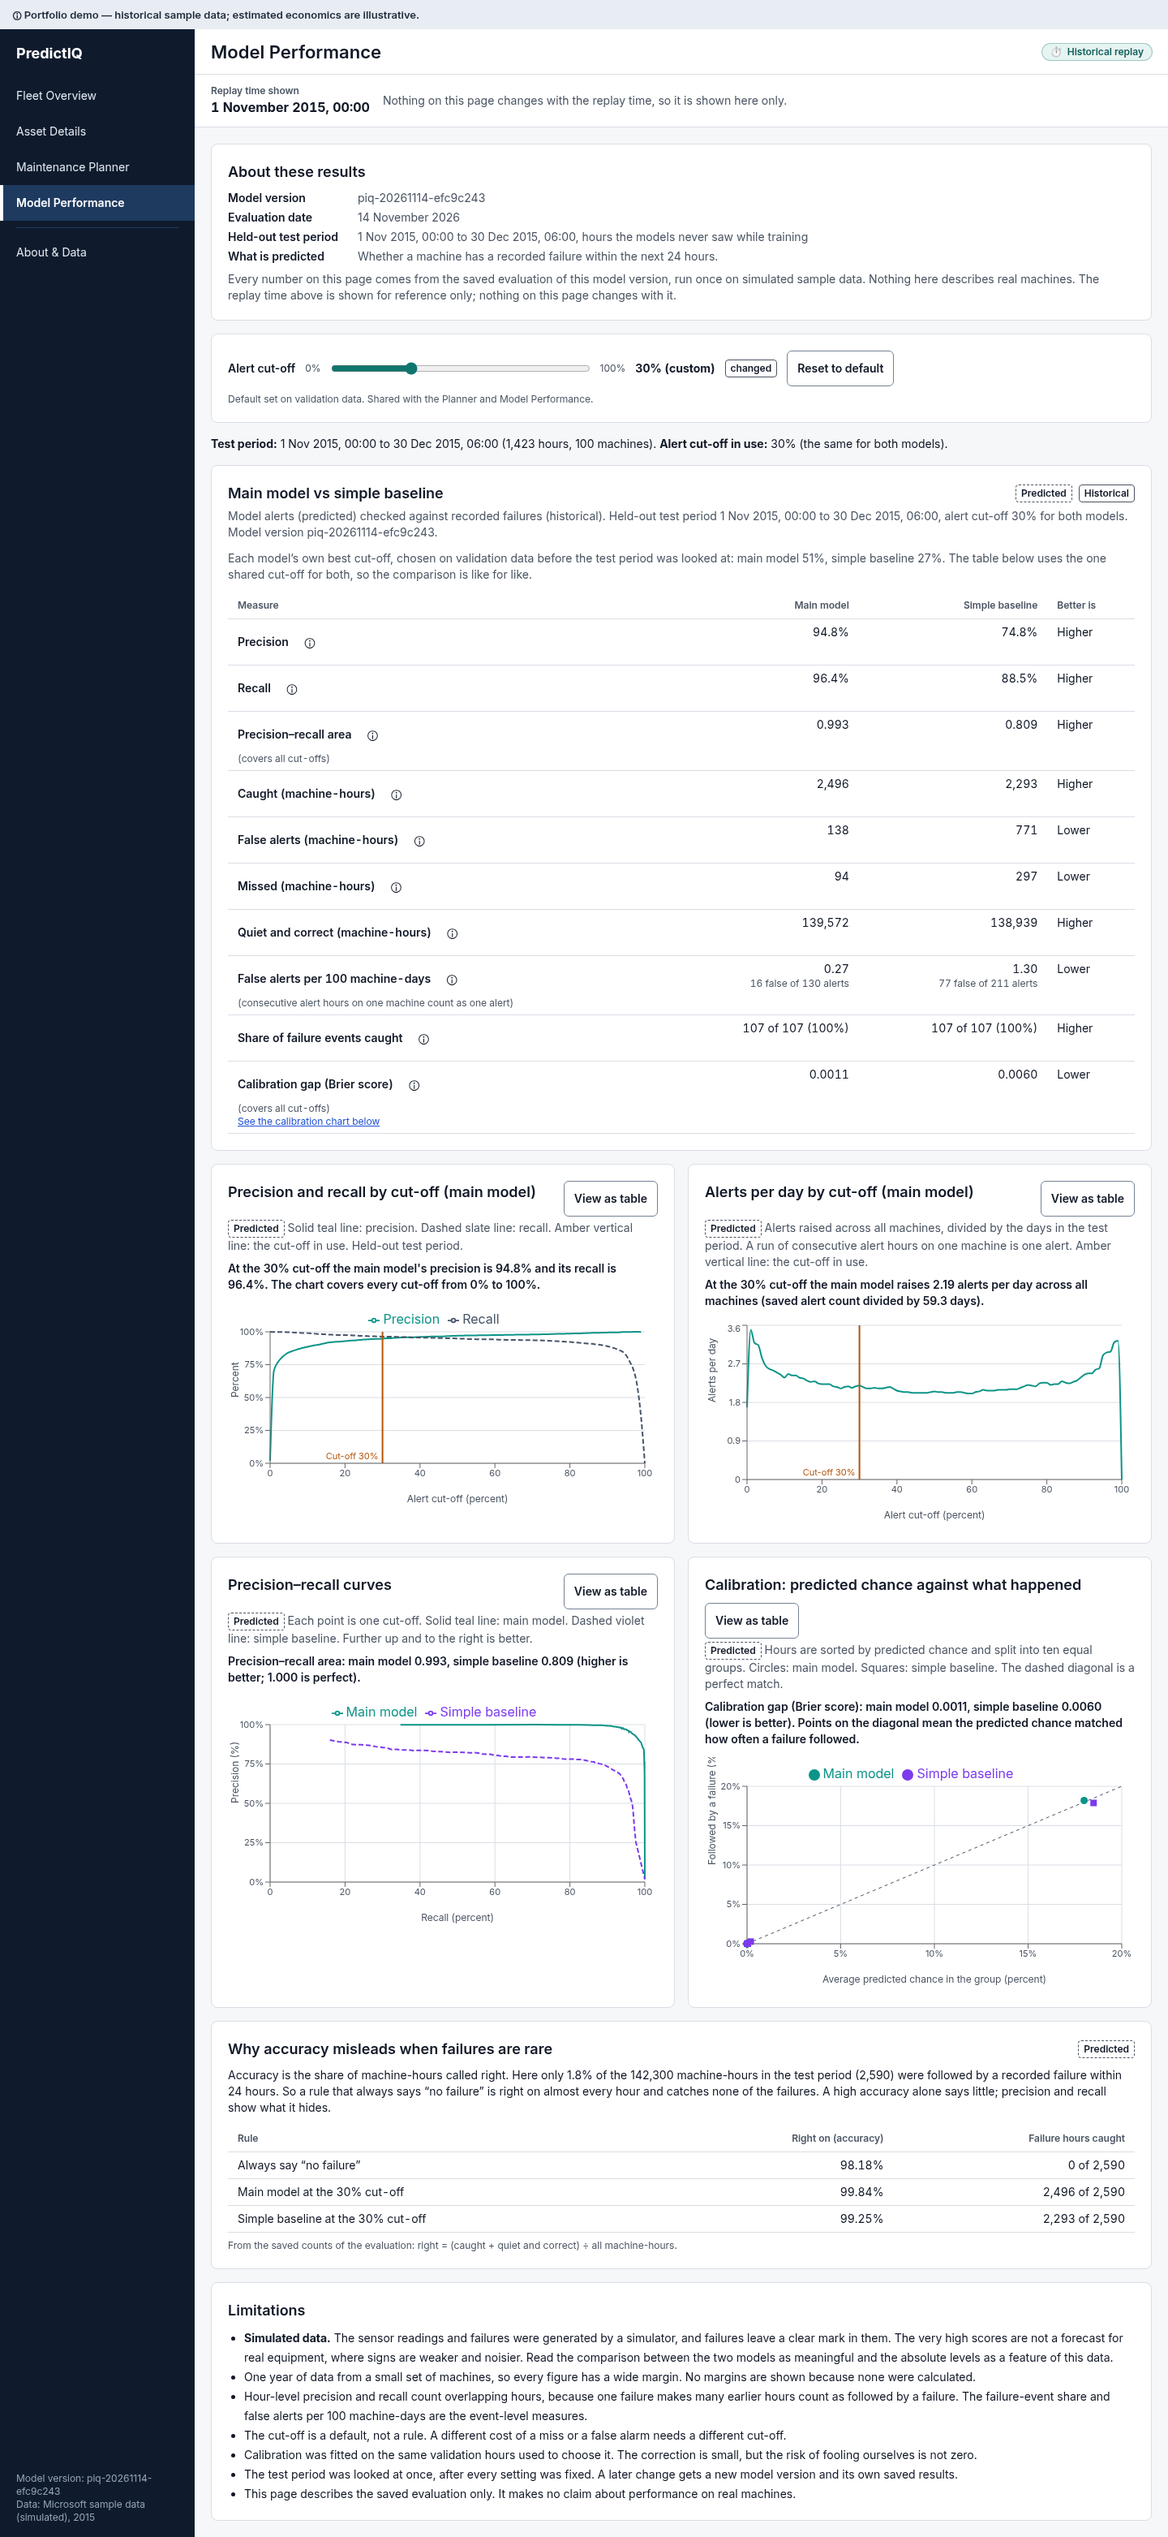
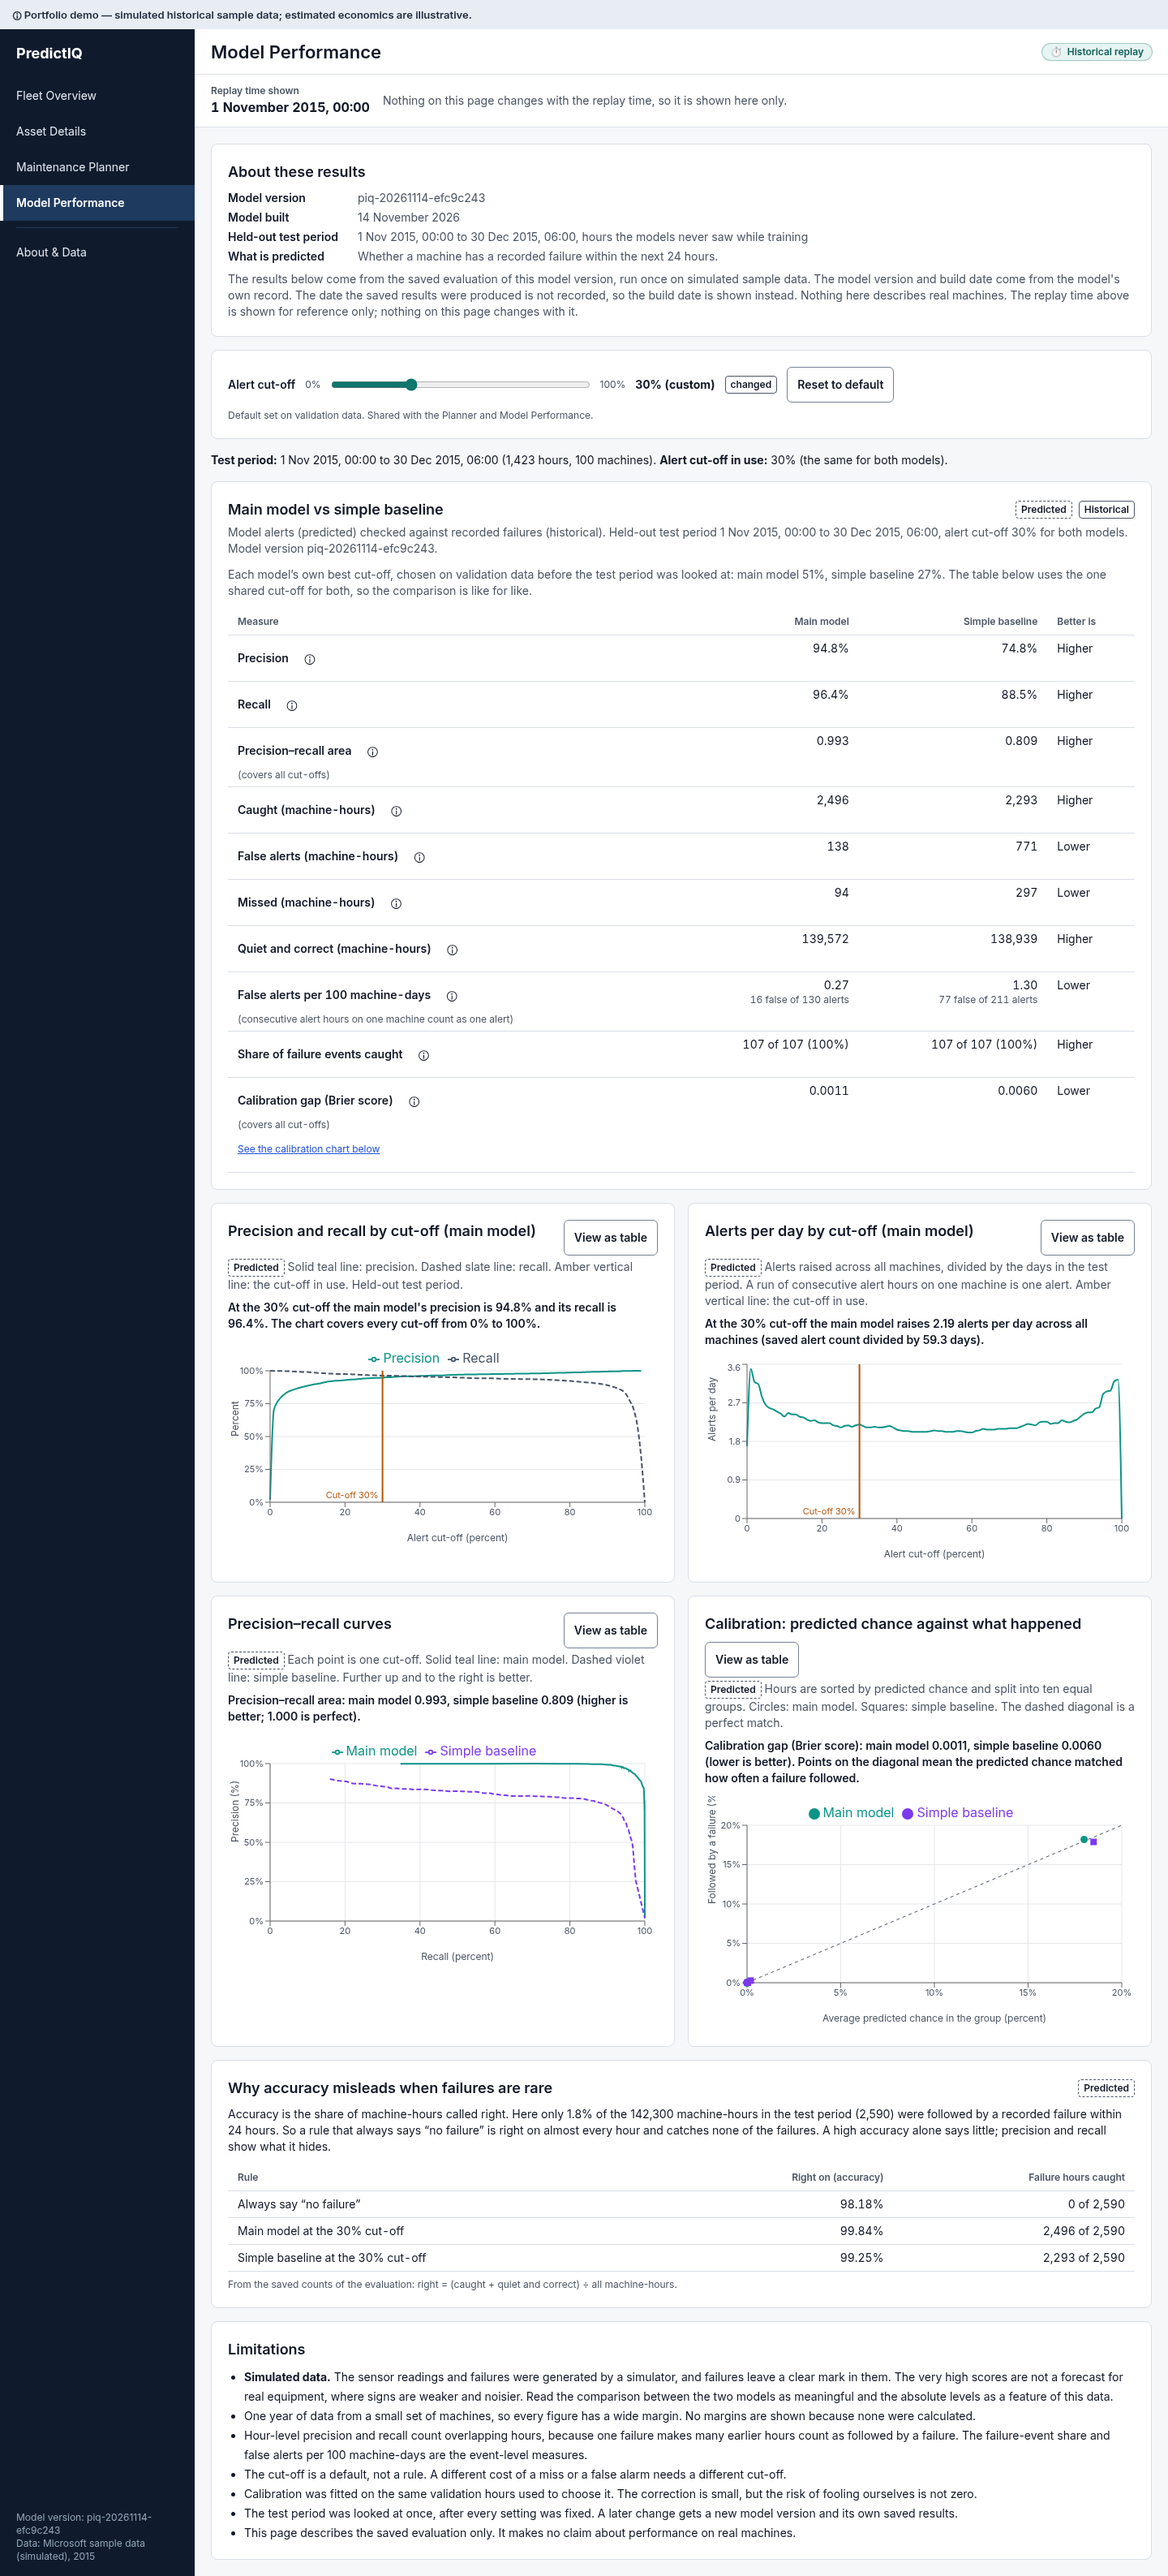
stage 5 fixes: build-date label, synthetic counts, simulated-data notice; testing report

diff --git a/frontend/components/model-performance-screen.tsx b/frontend/components/model-performance-screen.tsx
@@ -97,13 +97,14 @@ function Body() {
         </h2>
         <dl className="mt-2 mb-0 grid grid-cols-1 gap-x-6 gap-y-1 text-sm sm:grid-cols-[max-content_1fr]">
           <Fact k="Model version" v={ready!.model_version} testId="fact-version" />
-          <Fact k="Evaluation date" v={ready!.model_created ? dateText(ready!.model_created) : DASH} testId="fact-date" />
+          <Fact k="Model built" v={ready!.model_created ? dateText(ready!.model_created) : DASH} testId="fact-date" />
           <Fact k="Held-out test period" v={`${period}, hours the models never saw while training`} testId="fact-period" />
           <Fact k="What is predicted" v={TARGET_WORDS} testId="fact-target" />
         </dl>
         <p className="mt-2 mb-0 text-sm text-ink-2">
-          Every number on this page comes from the saved evaluation of this model version, run once on simulated sample
-          data. Nothing here describes real machines. The replay time above is shown for reference only; nothing on this
+          The results below come from the saved evaluation of this model version, run once on simulated sample data.
+          The model version and build date come from the model&apos;s own record. The date the saved results were
+          produced is not recorded, so the build date is shown instead. Nothing here describes real machines. The replay time above is shown for reference only; nothing on this
           page changes with it.
         </p>
       </section>

diff --git a/frontend/tests/model-performance.test.tsx b/frontend/tests/model-performance.test.tsx
@@ -86,10 +86,15 @@ async function ready(search = "") {
 }
 
 describe("Model Performance, results", () => {
-  it("shows the header facts: version, evaluation date, test period and the target in words", async () => {
+  it("shows the header facts: version, model build date, test period and the target in words", async () => {
     await ready();
     expect(screen.getByTestId("fact-version")).toHaveTextContent("piq-test-1");
     expect(screen.getByTestId("fact-date")).toHaveTextContent("14 November 2026");
+    const facts = screen.getByTestId("mp-facts");
+    expect(facts).toHaveTextContent("Model built");
+    expect(facts).not.toHaveTextContent("Evaluation date");
+    expect(facts).toHaveTextContent("The date the saved results were produced is not recorded");
+    expect(facts).not.toHaveTextContent("Every number");
     expect(screen.getByTestId("fact-period")).toHaveTextContent("1 Nov 2015, 00:00 to 30 Dec 2015, 06:00");
     expect(screen.getByTestId("fact-target")).toHaveTextContent("recorded failure within the next 24 hours");
   });

diff --git a/frontend/e2e/no-model.spec.ts b/frontend/e2e/no-model.spec.ts
@@ -42,7 +42,7 @@ for (const vp of [
       await page.setViewportSize({ width: vp.width, height: vp.height });
       await page.goto(route);
       await expect(page.getByRole("heading", { level: 1 })).toBeVisible();
-      await expect(page.getByRole("note").filter({ hasText: "Portfolio demo — historical sample data; estimated economics are illustrative." })).toBeVisible();
+      await expect(page.getByRole("note").filter({ hasText: "Portfolio demo — simulated historical sample data; estimated economics are illustrative." })).toBeVisible();
       const tags = ["wcag2a", "wcag2aa", "wcag21a", "wcag21aa", "wcag22aa"];
       const { violations } = await new AxeBuilder({ page }).withTags(tags).analyze();
       expect(violations.map((v) => `${v.id}: ${v.nodes.map((n) => n.target.join(" ")).join(" ; ")}`)).toEqual([]);

diff --git a/frontend/e2e/notice.spec.ts b/frontend/e2e/notice.spec.ts
@@ -4,7 +4,7 @@ import { DISCLOSURE, PAGES, VIEWPORTS, openPage } from "./page-support";
 
 // Story "Public release and limitations": every page carries the simulated-data and illustrative-costs notice.
 // The wording is the one fixed in docs/ux-spec.md ("Persistent disclosure at the top of every page, never
-// dismissible"): "Portfolio demo — historical sample data; estimated economics are illustrative."
+// dismissible"): "Portfolio demo — simulated historical sample data; estimated economics are illustrative."
 
 async function expectNotice(page: Page, viewportHeight: number) {
   const notice = page.getByRole("note").filter({ hasText: DISCLOSURE }).first();

diff --git a/frontend/e2e/smoke.spec.ts b/frontend/e2e/smoke.spec.ts
@@ -3,7 +3,7 @@ import { expect, test } from "@playwright/test";
 test("shell, banner, and every route render honestly", async ({ page }) => {
   await page.goto("/");
   await expect(page.getByRole("note")).toContainText(
-    "Portfolio demo — historical sample data; estimated economics are illustrative.",
+    "Portfolio demo — simulated historical sample data; estimated economics are illustrative.",
   );
   await expect(page.getByText("Historical replay")).toBeVisible();
   await expect(page.getByRole("heading", { level: 1 })).toHaveText("Fleet Overview");

diff --git a/frontend/e2e/page-support.ts b/frontend/e2e/page-support.ts
@@ -3,7 +3,7 @@ import { expect, type Page } from "@playwright/test";
 // Shared by the Stage 5 accessibility specs (target size, keyboard, axe, notice): the five pages, how to tell
 // each one has finished loading, and the two viewports the specs use.
 
-export const DISCLOSURE = "Portfolio demo — historical sample data; estimated economics are illustrative.";
+export const DISCLOSURE = "Portfolio demo — simulated historical sample data; estimated economics are illustrative.";
 
 export const VIEWPORTS = [
   { name: "desktop", width: 1280, height: 800 },

diff --git a/docs/wireframes/about-data.html b/docs/wireframes/about-data.html
@@ -131,7 +131,7 @@ details summary{cursor:pointer;font-weight:600}
 </head>
 <body data-state="default">
 <a class="skip" href="#main">Skip to content</a>
-<div class="banner" role="note">ⓘ Portfolio demo — historical sample data; estimated economics are illustrative.</div>
+<div class="banner" role="note">ⓘ Portfolio demo — simulated historical sample data; estimated economics are illustrative.</div>
 <div class="app">
   <nav class="sidebar" aria-label="Main">
     <div class="brand">PredictIQ</div>

diff --git a/docs/wireframes/asset-details.html b/docs/wireframes/asset-details.html
@@ -132,7 +132,7 @@ details summary{cursor:pointer;font-weight:600}
 </head>
 <body data-state="default">
 <a class="skip" href="#main">Skip to content</a>
-<div class="banner" role="note">ⓘ Portfolio demo — historical sample data; estimated economics are illustrative.</div>
+<div class="banner" role="note">ⓘ Portfolio demo — simulated historical sample data; estimated economics are illustrative.</div>
 <div class="app">
   <nav class="sidebar" aria-label="Main">
     <div class="brand">PredictIQ</div>

diff --git a/docs/wireframes/fleet-overview.html b/docs/wireframes/fleet-overview.html
@@ -133,7 +133,7 @@ details summary{cursor:pointer;font-weight:600}
 </head>
 <body data-state="default">
 <a class="skip" href="#main">Skip to content</a>
-<div class="banner" role="note">ⓘ Portfolio demo — historical sample data; estimated economics are illustrative.</div>
+<div class="banner" role="note">ⓘ Portfolio demo — simulated historical sample data; estimated economics are illustrative.</div>
 <div class="app">
   <nav class="sidebar" aria-label="Main">
     <div class="brand">PredictIQ</div>

diff --git a/docs/wireframes/maintenance-planner.html b/docs/wireframes/maintenance-planner.html
@@ -135,7 +135,7 @@ details summary{cursor:pointer;font-weight:600}
 </head>
 <body data-state="default">
 <a class="skip" href="#main">Skip to content</a>
-<div class="banner" role="note">ⓘ Portfolio demo — historical sample data; estimated economics are illustrative.</div>
+<div class="banner" role="note">ⓘ Portfolio demo — simulated historical sample data; estimated economics are illustrative.</div>
 <div class="app">
   <nav class="sidebar" aria-label="Main">
     <div class="brand">PredictIQ</div>

diff --git a/docs/wireframes/model-performance.html b/docs/wireframes/model-performance.html
@@ -131,7 +131,7 @@ details summary{cursor:pointer;font-weight:600}
 </head>
 <body data-state="default">
 <a class="skip" href="#main">Skip to content</a>
-<div class="banner" role="note">ⓘ Portfolio demo — historical sample data; estimated economics are illustrative.</div>
+<div class="banner" role="note">ⓘ Portfolio demo — simulated historical sample data; estimated economics are illustrative.</div>
 <div class="app">
   <nav class="sidebar" aria-label="Main">
     <div class="brand">PredictIQ</div>

diff --git a/frontend/lib/nav.ts b/frontend/lib/nav.ts
@@ -1,6 +1,6 @@
 export type NavItem = { href: string; label: string };
 
-export const DISCLOSURE = "Portfolio demo — historical sample data; estimated economics are illustrative.";
+export const DISCLOSURE = "Portfolio demo — simulated historical sample data; estimated economics are illustrative.";
 
 export const PROVENANCE_URL = "https://github.com/bavafa/predictiq/blob/main/docs/DATA_PROVENANCE.md";
 
